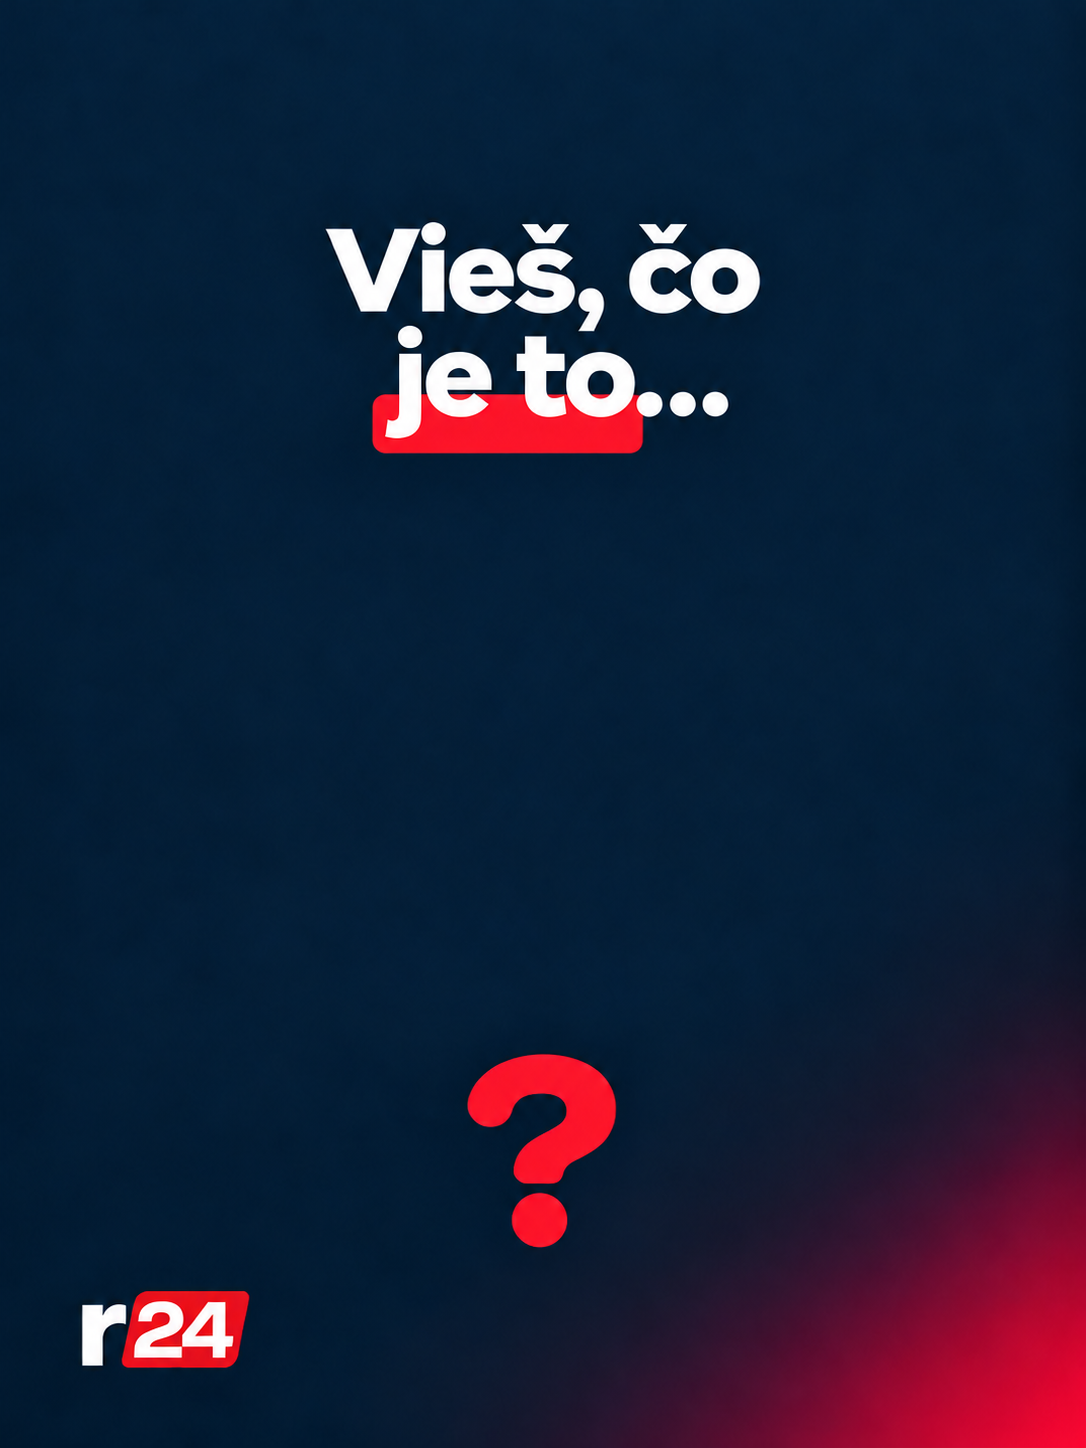
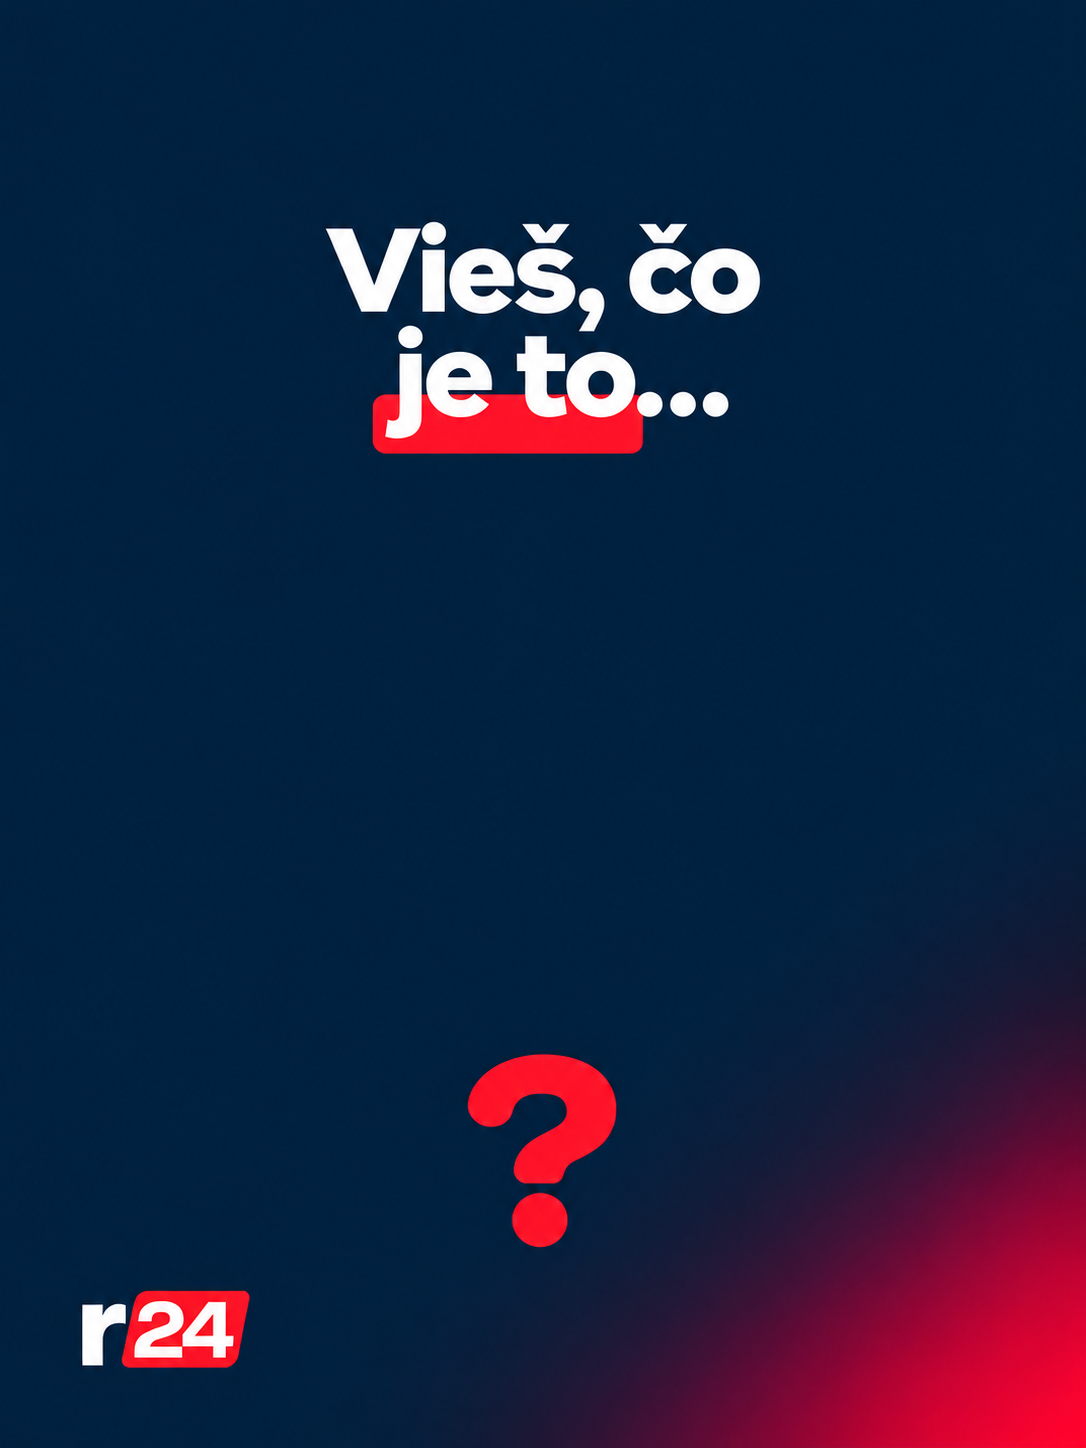
fix: include scraper templates in Vercel bundle, better error propagation, updated templates
- outputFileTracingIncludes for /api/ig-publish to include scraper files
- serverExternalPackages for sharp
- Throw errors instead of returning null for better debugging
- Updated vies co je slide 1 template
- Updated poznas tuto firmu slide 2 template

diff --git a/src/app/api/ig-publish/route.ts b/src/app/api/ig-publish/route.ts
@@ -55,7 +55,7 @@ export async function GET(req: NextRequest) {
       category: catName,
     }, postIndex);
 
-    if (!result) throw new Error('Carousel generation failed');
+    if (!result) throw new Error('Carousel generation returned null - check sharp/template availability');
 
     // Upload slides to Supabase Storage
     const { readFileSync } = await import('fs');

diff --git a/next.config.ts b/next.config.ts
@@ -7,6 +7,10 @@ const nextConfig: NextConfig = {
       { protocol: 'https', hostname: '*.supabase.co' },
     ],
   },
+  serverExternalPackages: ['sharp'],
+  outputFileTracingIncludes: {
+    '/api/ig-publish': ['./scraper/**/*'],
+  },
   cacheComponents: false,
   partialPrefetching: false,
   turbopack: {
